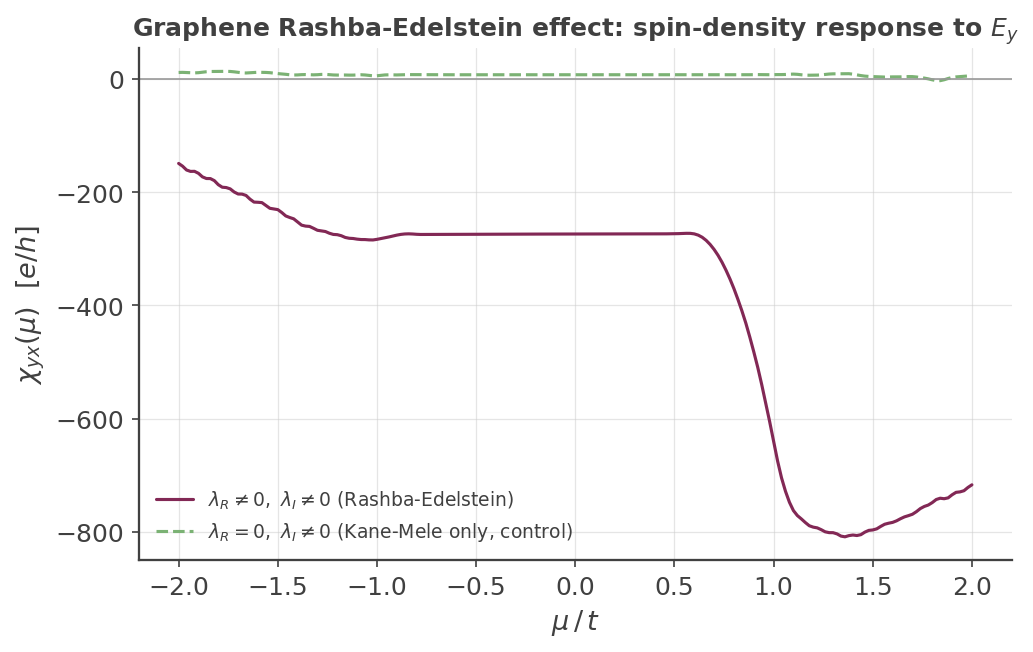
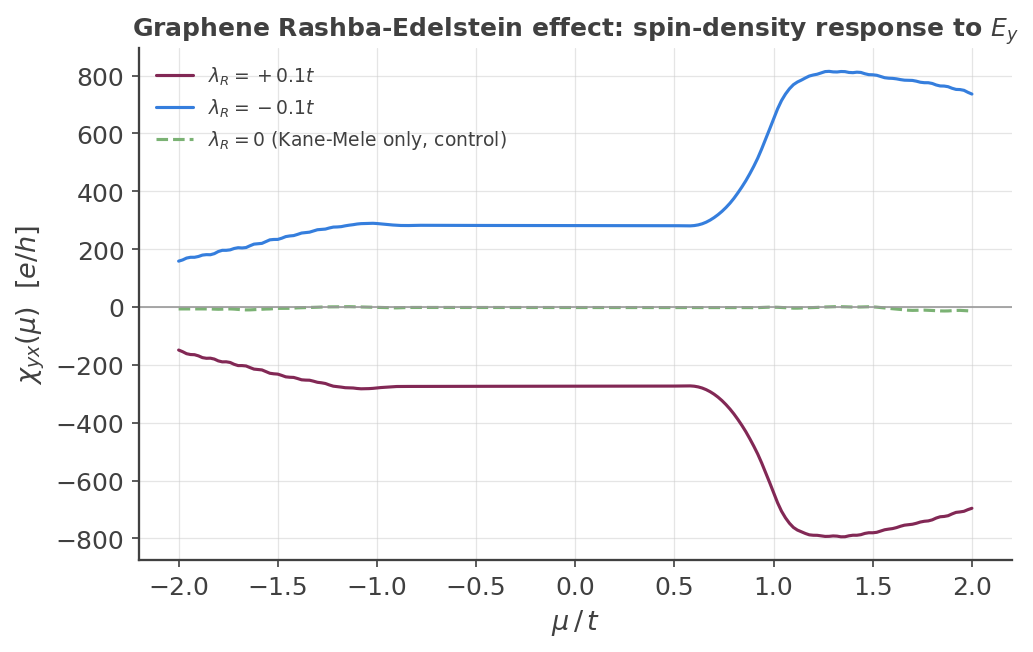
Show REE sign inversion with lambda_R in rashba_edelstein_graphene plot
Add a third structural check: flipping lambda_R's sign must flip chi_yx's
sign (reversed Rashba helicity reverses the induced spin density), matching
the qualitative signature in Medina Dueñas et al.'s Fig. 2(a). Overlay
+lambda_R and -lambda_R curves against the existing lambda_R=0 control.

diff --git a/examples/rashba_edelstein_graphene_process.py b/examples/rashba_edelstein_graphene_process.py
@@ -110,22 +110,31 @@ def edelstein(file_path, mu_values, k_BT=0.01, scat_phys=0.04,
     return mu_values, chi_yx
 
 
-def plot(rashba_h5, control_h5, out_path="plots/rashba_edelstein_graphene_preview.png"):
-    """Compare the lambda_R!=0 REE response against a lambda_R=0 (Kane-Mele-only) control.
+def plot(pos_h5, neg_h5, control_h5, out_path="plots/rashba_edelstein_graphene_preview.png"):
+    """Compare +lambda_R, -lambda_R, and a lambda_R=0 (Kane-Mele-only) control.
+
+    Flipping the sign of lambda_R must flip the sign of chi_yx (S_REE ~
+    zhat x E, and reversing the Rashba term reverses the helicity of the
+    spin-momentum locking) -- the same sign-inversion check shown in Fig. 2(a)
+    of Medina Duenas et al., Commun. Phys. (2026) [arXiv:2510.21240], just
+    with two lambda_R values instead of their full color-graded sweep.
 
     The control isn't expected to be exactly zero at finite num_random_ (see
     rashba_edelstein_graphene.py's docstring), but should be much smaller than
     -- and structurally distinct from -- the actual signal.
     """
     mus = np.linspace(-2.0, 2.0, 201)
-    mu, chi = edelstein(rashba_h5, mus)
+    mu, chi_pos = edelstein(pos_h5, mus)
+    _, chi_neg = edelstein(neg_h5, mus)
     _, chi_control = edelstein(control_h5, mus)
 
     fig, ax = plt.subplots(figsize=(7, 4.5))
-    ax.plot(mu, chi, color=kite_style.KITE_PRIMARY, lw=1.5,
-            label=r"$\lambda_R\neq0,\ \lambda_I\neq0$ (Rashba-Edelstein)")
+    ax.plot(mu, chi_pos, color=kite_style.KITE_PRIMARY, lw=1.5,
+            label=r"$\lambda_R=+0.1t$")
+    ax.plot(mu, chi_neg, color="#357EDD", lw=1.5,
+            label=r"$\lambda_R=-0.1t$")
     ax.plot(mu, chi_control, color=kite_style.KITE_ACCENT, lw=1.5, ls="--",
-            label=r"$\lambda_R=0,\ \lambda_I\neq0$ (Kane-Mele only, control)")
+            label=r"$\lambda_R=0$ (Kane-Mele only, control)")
     ax.axhline(0.0, color="0.6", lw=0.8)
     ax.set_xlabel(r"$\mu\,/\,t$", fontsize=13)
     ax.set_ylabel(r"$\chi_{yx}(\mu)$  [$e/h$]", fontsize=13)
@@ -138,7 +147,7 @@ def plot(rashba_h5, control_h5, out_path="plots/rashba_edelstein_graphene_previe
     plt.savefig(out_path.replace("_preview.png", ".pdf"))
     plt.close(fig)
     print(f"Saved {out_path}")
-    return mu, chi, chi_control
+    return mu, chi_pos, chi_neg, chi_control
 
 
 if __name__ == "__main__":

diff --git a/docs/documentation/examples/rashba_edelstein.md b/docs/documentation/examples/rashba_edelstein.md
@@ -96,17 +96,20 @@ three NN bonds (`relative_index` `[0,0]`, `[1,-1]`, `[0,-1]`) point at $90°,-30
 
 ### Validation
 
-Two structural checks, cheap and independent of any absolute-normalization ambiguity:
+Three structural checks, cheap and independent of any absolute-normalization ambiguity:
 
 1. $\lambda_R\neq0,\ \lambda_I=0$: REE response should be nonzero.
 2. $\lambda_R=0,\ \lambda_I\neq0$: REE response should vanish — Kane-Mele alone is
    inversion-symmetric and cannot polarize spin.
+3. Flipping the sign of $\lambda_R$ (at fixed $\lambda_I$) must flip the sign of $\chi_{yx}$: the
+   Rashba term's helicity reverses, so the induced spin density $\mathbf S_\text{REE}\propto
+   \hat z\times\mathbf E$ reverses too — the same sign-inversion signature shown in Fig. 2(a) of
+   Medina Dueñas *et al.*[^1]
 
 <figure>
     <img src="../../../assets/images/custom_vertex_operators/rashba_edelstein_graphene.png" style="width: 34em;" />
-    <figcaption>chi_yx(mu) with Rashba SOC on (solid) vs. a Kane-Mele-only control with
-    lambda_R=0 (dashed) — the control stays near zero throughout, while turning on Rashba SOC
-    produces a clear plateau.</figcaption>
+    <figcaption>chi_yx(mu) for lambda_R=+0.1t and lambda_R=-0.1t (opposite-sign plateaus), against
+    a Kane-Mele-only control with lambda_R=0 that stays near zero throughout.</figcaption>
 </figure>
 
 Check 2 is a **near-exact cancellation**, not a trivially-zero one: when $\lambda_R=0$ the
@@ -123,6 +126,8 @@ genuine averaging convergence, not a wrong vertex or lattice.
     Get more familiar with KITE: run [`#!python examples/rashba_edelstein_graphene.py`][ree-example]
     and its post-processing yourself, and try sweeping $\lambda_R$ at fixed $\lambda_I$ to see the
     plateau height scale with the Rashba strength.
+
+[^1]: J. Medina Dueñas, S. Giménez de Castro, J. H. García, and S. Roche, "Optimal spin-charge interconversion in graphene through spin-pseudospin entanglement control," [Commun. Phys. (2026)](https://www.nature.com/articles/s42005-026-02658-9) ([arXiv:2510.21240](https://arxiv.org/abs/2510.21240)).
 
 [custom-vertex-example]: custom_vertex_operators.md
 [ree-example]: https://github.com/quantum-kite/kite-v2/tree/master/examples/rashba_edelstein_graphene.py